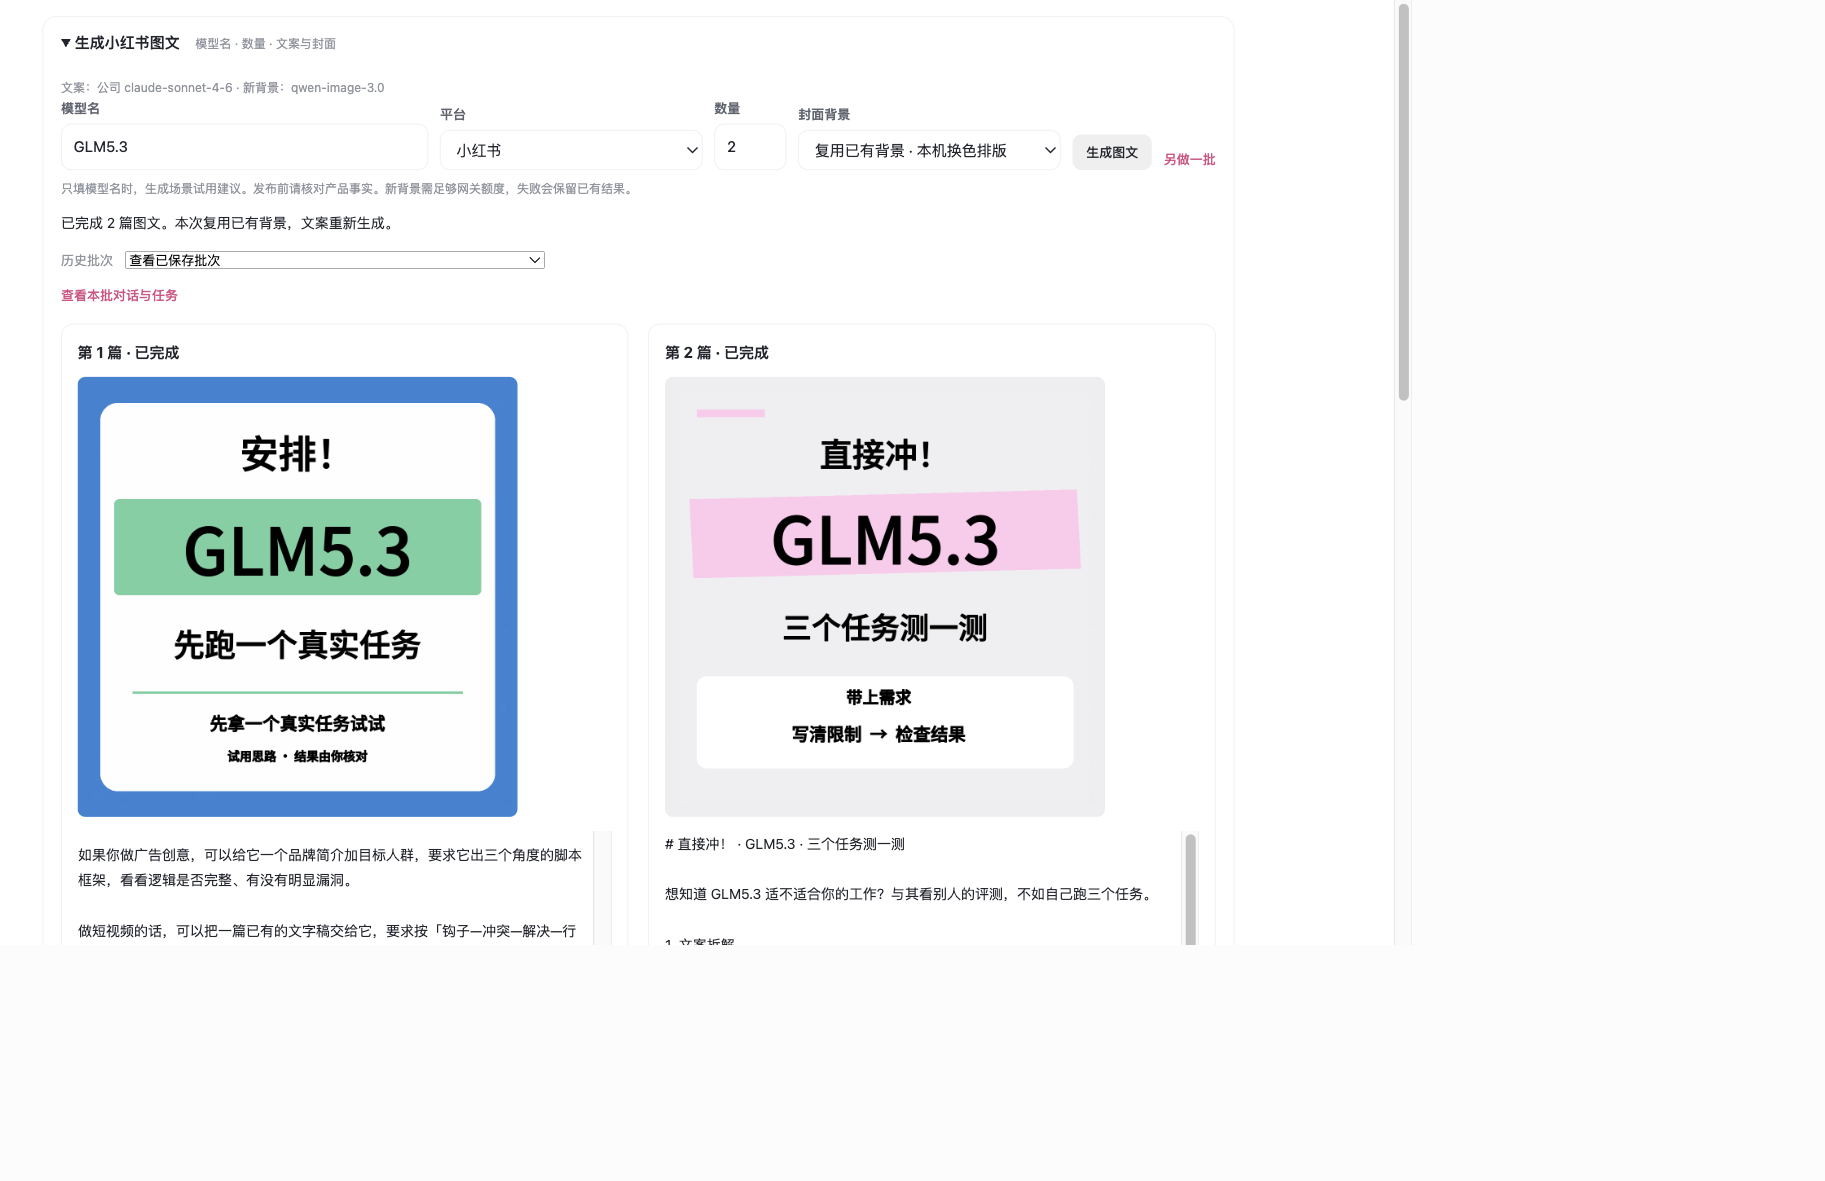
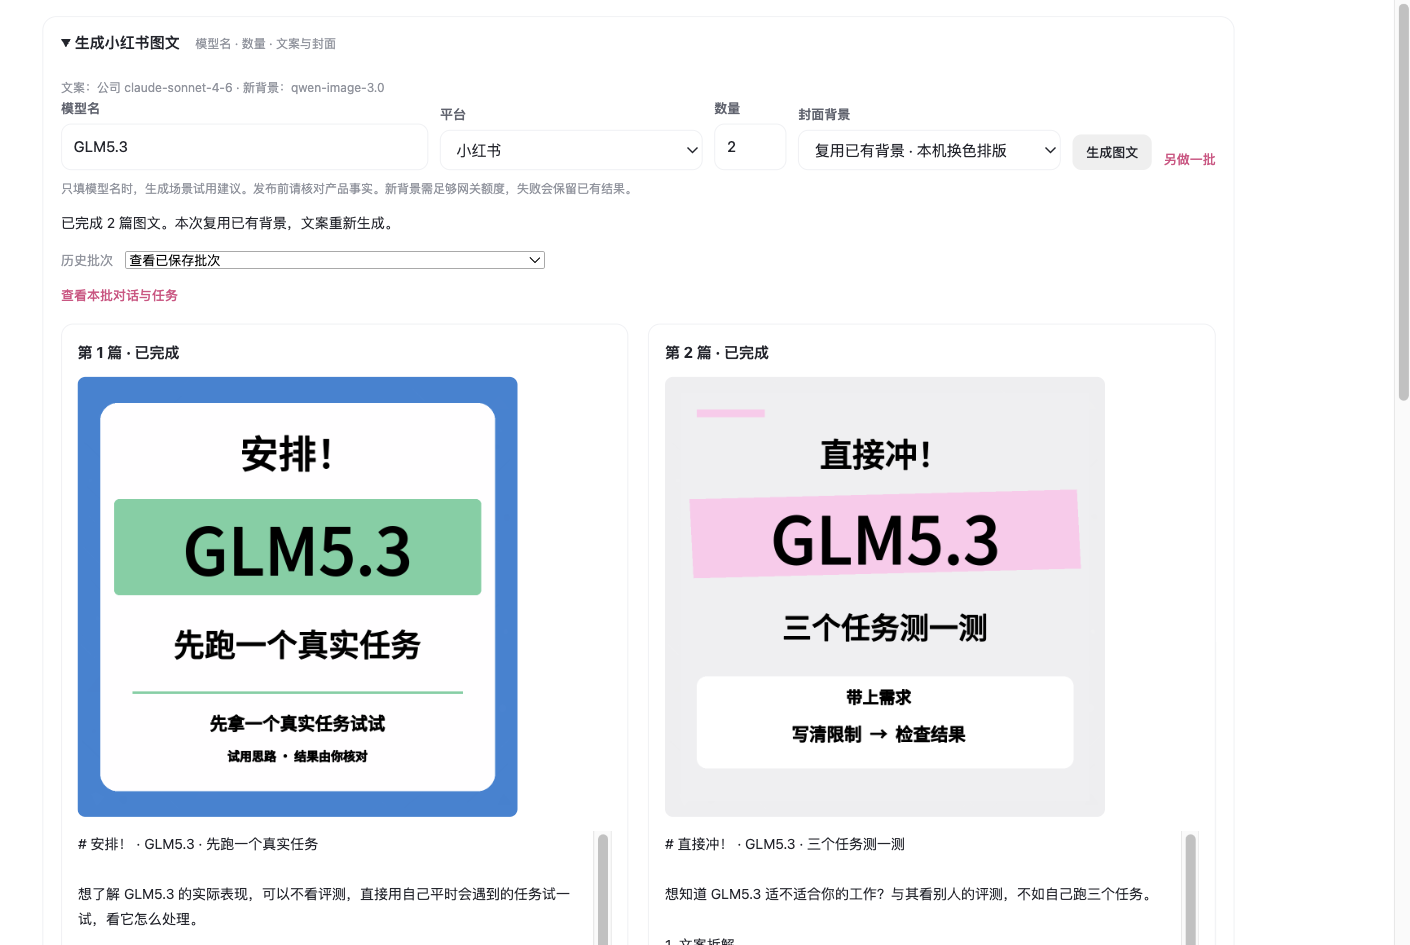
交付 11 月 1 日完成报告、成品索引与界面截图

diff --git a/outputs/2026-11-01/完成报告.md b/outputs/2026-11-01/完成报告.md
@@ -1,0 +1,79 @@
+# 2026-11-01 完成报告
+
+给 lilith 和思敏。
+
+**本机 Hanabi 已能输入 `GLM5.3`、数量 `2`，生成并保存两篇小红书文案和两张封面。** 已从真实界面点击生成，刷新和后台服务重新部署后仍能找回同一批结果。当前可用模式是「复用已有背景 · 本机换色排版」；公司网关新背景额度不足，尚不能保证每次全新生图。
+
+## 醒来直接这样用
+
+1. 打开 Hanabi，点「Hanabi／内容工作台」，展开「生成小红书图文」。
+2. 模型名填 `GLM5.3`，平台选「小红书」，数量填 `2`。
+3. 封面背景选「复用已有背景 · 本机换色排版」，点「生成图文」。文案由公司 Claude 新生成，每篇采用不同配色和结构。
+4. 完成后可复制文案、保存图片、进入「燃放预览」。本次验收约一分钟，实际时间取决于网关。
+5. 用「历史批次」找回已有结果；需要新作品时点「另做一批」。刷新不会自动重新收费生成。
+
+本机服务为 `http://127.0.0.1:6187`，后台服务已处于 running。详细操作、手动启动及维护方法见[使用说明](../../docs/hanabi-usage.md)。
+
+目前只输入产品名时，产出是场景试用建议。没有产品资料便不编价格、活动、性能和亲测经历；正式推广前仍需核对产品事实。表单暂不提供资料输入，命令行支持 `--facts`。
+
+## 六张任务卡结果
+
+按批次 1 并行、批次 2 串行实施；T04 记录阻塞后，使用已核实的可用产出继续后续任务。
+
+| 卡 | 结果 | 已推送提交 |
+|---|---|---|
+| T04 企微偏好 | 可用产出已交付，历史补采阻塞。15 条标准、8 个反例、24 行去敏引文、16 条好帖标签；公司 Claude 审核通过 | `ef1d898` |
+| T06 图像通路 | 公司 `qwen-image-3.0` 真实出图；模型列表、截图与调用脚本已交付，Q3 已关闭。图反推未验证 | `e0515e5` |
+| T03 简化版 | 置顶两篇加随机十条；5 组开场动词、卖点、句式与真实封面配色规则，Claude 已校核 | `6561469` |
+| T05 简化版 | quick 风险规则和检查脚本可用；接入企微约束后共 20 条，支持平台、模型范围 | `5f98f26` |
+| T08 简化版 | GLM5.3 两篇、Kimi 2.6 一篇已产出；新背景失败后显式缓存续跑，保留已完成结果 | `a4e78be` |
+| T11 Hanabi | 真实表单生成 GLM5.3 ×2，文案、图片、历史、预览及恢复验收通过；当前使用缓存背景 | `152fbc2` |
+
+每卡均更新了任务卡「完成记录」、进度总表和 README，并分别提交、推送。T04 保留阻塞状态，没有把历史采集缺口记为全部完成。
+
+## 本次界面生成的两篇
+
+这是从 Hanabi 表单真实生成并保存的同一批作品，封面均为 1080×1080，使用已有 Qwen 背景重新换色排版。两篇文案与海报结构不同。
+
+| 成品 | 文案 | 封面 |
+|---|---|---|
+| 安排！· GLM5.3 · 先跑一个真实任务 | [第 1 篇](hanabi-验收/post-1.md) | [PNG](hanabi-验收/post-1.png) |
+| 直接冲！· GLM5.3 · 三个任务测一测 | [第 2 篇](hanabi-验收/post-2.md) | [PNG](hanabi-验收/post-2.png) |
+
+![Hanabi 表单与两篇结果](../../docs/hanabi-interface-screenshot.png)
+
+![同一批作品进入燃放预览](../../docs/hanabi-preview-screenshot.png)
+
+![第 1 篇封面](hanabi-验收/post-1.png)
+
+![第 2 篇封面](hanabi-验收/post-2.png)
+
+## 已做的验收
+
+- 真实界面填写 GLM5.3／小红书／2／复用背景，点击生成，两篇均完成。批次 ID：`bc45c766-917e-4241-a275-7bd0c6b0190f`。
+- 最终两篇全字段风险检查通过；独立事实终审发现并删除了一处虚构体验开头，最终副本与 Hanabi 中的同一作品已同步修正。
+- Python 4 项测试通过：解析、全字段与模型范围检查、失败保留与显式续跑、拒绝覆盖已有结果。生成器现执行三轮 Claude：初稿、风格修订、事实终审。
+- Node 18 项测试通过；现有 `test:application-ui` 通过，覆盖 1400／900 宽度、资料与成品联动、刷新恢复和新启动。
+- 刷新和后台服务重新部署后仍是同一 completed 批次，未重新调用收费模型。资料库保持 25，完成任务 8→10，预览作品 27→29。
+- 图片下载 HTTP 200；原有 Word 导出 HTTP 200。无 Origin 的生成请求返回 403，数量 20 返回 400。停止、部分失败保留、重复请求去重均有实现与测试。
+- 收尾再次确认服务健康、配置可用、批次完整；16 条 good 标签存在，两篇终稿均「未命中风险词」。企微原文、截图和本机凭证未被 Git 跟踪。
+
+## 仍然缺什么
+
+**T04 更早企微历史待补。** 最早读到 2026-10-15，未达到 ≥500 条消息或回溯到 2024 年的要求。客户端未继续加载更早历史，随后电脑锁屏，工具无法自动解锁。另有 4 条 Seedance 候选勾选图和 2 条外部参考待核实；全部选帖线索覆盖 16/22，已可靠识别集合匹配 16/16。已记任务卡和 Q8，未编造标签或原话。
+
+**新背景额度不足。** 公司网关返回 403 `insufficient_user_quota`，当时余额约 0.05，Qwen 单次需预扣 0.25。已保留成功背景并提供明确缓存模式；补充公司额度后才可使用「生成新背景」。没有自动换模型或反复计费重试。见 Q9。
+
+**口径冲突待 lilith 定。** D10 与较晚企微反馈对部分「管饱」表达存在范围差异，Q7 保持开放；本轮采用已核实的严格范围，没有擅自改历史决策。
+
+## 换电脑须知
+
+Git 已同步 content-ops 的脚本、规则、任务记录、文案与说明。到另一台电脑先 `git pull`。
+
+按 T11 任务卡约定，**Hanabi 的改动仅部署在本机，未推入 content-ops**；生成 PNG、背景、公司凭证及应用数据库也不靠 Git 同步。另一台电脑需要迁移当前 Hanabi 源码和应用数据、背景，并配置本机公司令牌，不能只拉仓库就直接拥有同样的 Hanabi 界面。
+
+当前开发源码：`~/Documents/ChatGPT/【探索】/content-alchemy`；运行版与独立脚本副本位于 `~/Library/Application Support/Content Alchemy/`。旧的 10 月 27 日备份仅作参考，没有覆盖更新的应用。
+
+随本轮聊天交付的文件包包含两篇最终 MD／PNG、截图和使用说明；不包含企微原文、公司令牌或 Hanabi 数据库。仓库中的 PNG 按既有规则忽略，若只通过 Git 查看本报告，需使用本机交付包或从 Hanabi 保存图片。
+
+本轮没有自动发布帖子，也没有给任何人发送企微消息。

diff --git a/README.md b/README.md
@@ -23,6 +23,7 @@
 | 使用者 | lilith 一人；做顺了同事（阮思敏，运营）会用 |
 | 生成脚本 | GLM5.3 两套 + Kimi 一套已产出；缓存背景可用，新图需充值，见 docs/xhs-generation-usage.md |
 | 界面 | Hanabi 6187 已实测 GLM5.3 ×2：图文、历史、刷新恢复、燃放预览可用；见 docs/hanabi-usage.md |
+| 本轮交付 | [2026-11-01 完成报告](outputs/2026-11-01/完成报告.md)，含卡片结果、验收证据、使用步骤与缺口 |
 
 ## 这个项目不是什么
 
